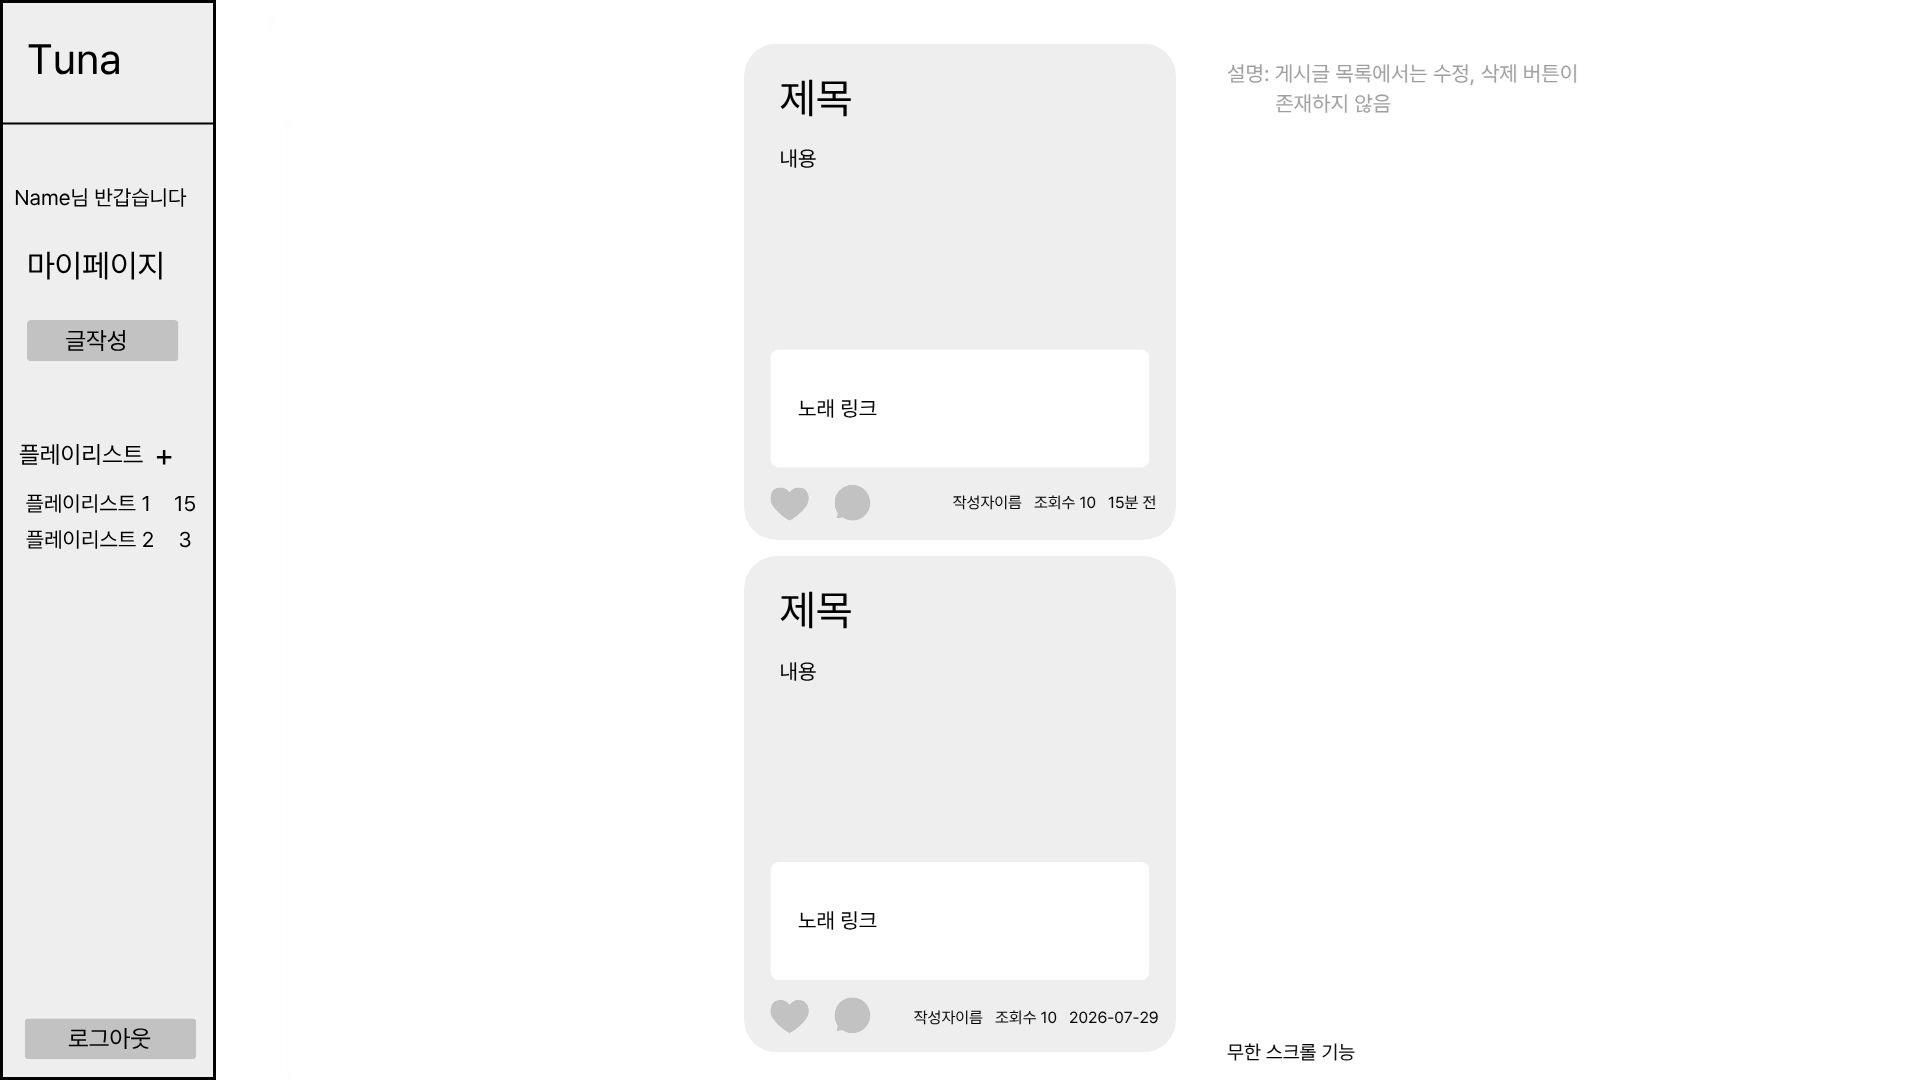
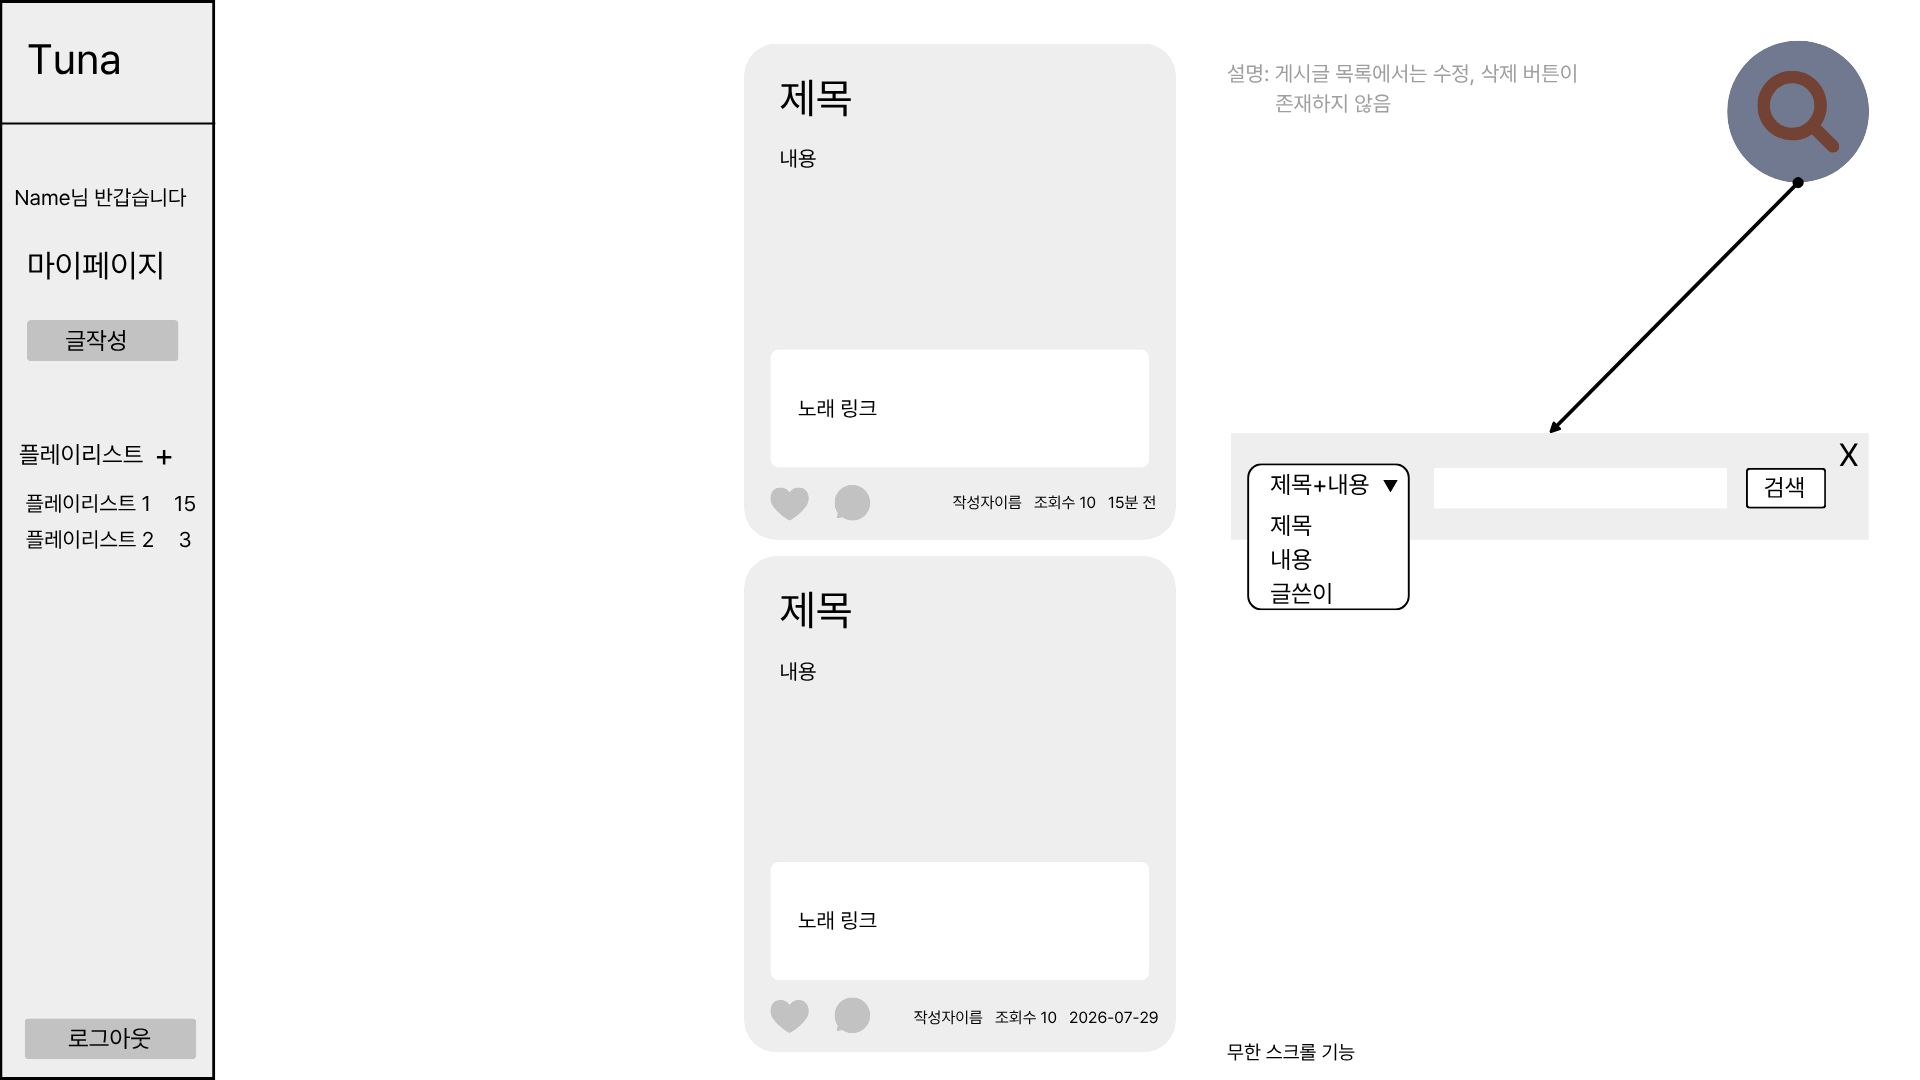
DOCS: 검색 기능 기획 문서화

diff --git a/docs/02_design/03_ui_wireframe.md b/docs/02_design/03_ui_wireframe.md
@@ -45,13 +45,20 @@
     - 게시글 목록 영역: 제목, 내용, 링크, 작성자 이름, 조회수, 생성 일시 → 게시글 전체 목록 조회
         - 생성 일시: 24시간 미만 시 10분 전/1시간 전 이런식으로 표기, 24시간 경과 후 날짜만 표기
 - 입력 데이터 및 검증 규칙 (Input Data & Validation):
-    - `/` 페이지는 입력 데이터가 존재 하지 않아 검증 규칙 또한 없습니다.
+    - 검색 팝업 영역
+        - 드롭다운 메뉴: 제목+내용, 제목, 내용, 글쓴이 만 선택 가능
+        - 검색 입력: 필수 입력 항목, 1~100자
 - 화면 제어 및 권한 규칙(Behavior Rules):
     - 게시글 목록 영역
         - 게시글 카드 영역 전체: 게시글 상세(`/posts/{postId}`)로 이동
         - 하트 버튼: 플레이리스트 팝업창을 띄워서 추가할 플레이리스트를 선택
         - 댓글 버튼: 게시글의 댓글 영역(`/posts/{post_id}#comments`)으로 이동
         - 무한 스크롤 방식: 커서 기반 페이지네이션
+        - 검색 버튼: 검색 팝업이 출력된다
+    - 검색 팝업 영역
+        - 드롭다운 메뉴: 목록을 한가지만 선택할 수 있다
+        - 검색 버튼: 선택한 목록과 검색어를 기반으로 메인화면을 새로고침(리다이렉트)시켜 게시글 목록을 불러온다
+        - 취소(x) 버튼: 검색 팝업을 닫는다
 
 ## 게시글 상세 (Post Detail)
 

diff --git a/docs/01_planning/02_prd.md b/docs/01_planning/02_prd.md
@@ -11,14 +11,15 @@
 ## 게시글 (POST)
 
 
-| ID | 구분 | 기능 | 요구사항 | 우선순위 |
-| --- | --- | --- | --- | --- |
+| ID     | 구분 | 기능 | 요구사항 | 우선순위 |
+|--------| --- | --- | --- | --- |
 | POST-1 | 게시글 | 게시글 작성 | 로그인한 사용자는 음악 URL과 소개 내용을 작성할 수 있다 | 1 |
 | POST-2 | 게시글 | 게시글 목록 | 사용자는 최신순으로 게시글 목록을 게시글 10개씩 보이는 페이지 단위로 조회할 수 있다 | 1 |
 | POST-3 | 게시글 | 게시글 상세 조회 | 사용자는 게시글 내용과 댓글을 확인할 수 있다 | 1 |
 | POST-4 | 게시글 | 게시글 수정 | 작성자는 자신이 작성한 게시글을 수정할 수 있다 | 1 |
 | POST-5 | 게시글 | 게시글 삭제 | 작성자는 자신이 작성한 게시글을 삭제할 수 있다 | 1 |
 | POST-6 | 게시글 | 조회수 | 게시글을 누를 때마다 조회수가 +1 카운트 된다. | 2 |
+| POST-7 | 게시글 | 검색 | 사용자는 게시글의 제목이나 내용으로 검색할 수 있다 | 2 |
 
 ## 댓글 (COMMENT)
 

diff --git a/docs/01_planning/01_proposal.md b/docs/01_planning/01_proposal.md
@@ -55,6 +55,7 @@
 - 사용자가 자신이 쓴 게시글일 경우 생성/수정/삭제 할 수 있음
 - 게시물 방문시 조회수 카운트 증가
 - 게시물 목록은 10개의 페이징리스트로 조회
+- 제목+내용, 제목, 내용, 글쓴이를 조건으로 특정 키워드를 검색
 
 ### 댓글 시스템
 
